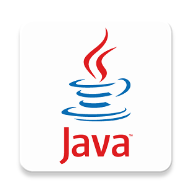
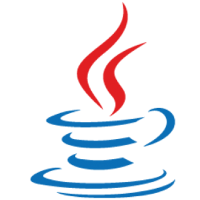
Changes to using locally saved images

Changed region(s): [[0.0938, 0.0, 0.9062, 1.0], [0.7188, 0.1875, 0.75, 0.2188]]

diff --git a/index.html b/index.html
@@ -54,14 +54,14 @@
         <div class="row">
             <div class= "text-xs-center">
                 <div class="card greyBackground col-xs-3 col-sm-3 col-md-2 col-lg-2 col-xl-2">
-                    <img class="card-img-top img-fluid" src="http://www.newstension.com/wp-content/uploads/2016/02/image-10259.jpg" alt="Card image cap">
+                    <img class="card-img-top img-fluid" src="images/java.png" alt="Card image cap">
                     <div class="card-block">
                         <span class="card-title text-xs-center">Java</span>
                     </div>
                 </div>
                 
                 <div class="card greyBackground col-xs-3 col-sm-3 col-md-2 col-lg-2 col-xl-2">
-                    <img class="card-img-top img-fluid" src="http://cdn.mysitemyway.com/etc-mysitemyway/icons/legacy-previews/icons/glossy-black-icons-alphanumeric/070841-glossy-black-icon-alphanumeric-letter-c.png"
+                    <img class="card-img-top img-fluid" src="images/c.gif"
                     alt="Card image cap">
                     <div class="card-block">
                         <span class="card-title">C</span>
@@ -69,42 +69,42 @@
                 </div>
 
                 <div class="card greyBackground col-xs-3 col-sm-3 col-md-2 col-lg-2 col-xl-2">
-                    <img class="card-img-top img-fluid" src="https://www.w3.org/html/logo/downloads/HTML5_Logo_512.png" alt="Card image cap">
+                    <img class="card-img-top img-fluid" src="images/HTML5.png" alt="Card image cap">
                     <div class="card-block">
                         <span class="card-title ">HTML</span>
                     </div>
                 </div>
 
                 <div class="card greyBackground col-xs-3 col-sm-3 col-md-2 col-lg-2 col-xl-2">
-                    <img class="card-img-top img-fluid" src="http://logonoid.com/images/css3-logo.png" alt="Card image cap">
+                    <img class="card-img-top img-fluid" src="images/css3.png" alt="Card image cap">
                     <div class="card-block">
                         <span class="card-title ">CSS</span>
                     </div>
                 </div>
 
                 <div class="card greyBackground col-xs-3 col-sm-3 col-md-2 col-lg-2 col-xl-2">
-                    <img class="card-img-top img-fluid" src="http://3.bp.blogspot.com/-PTty3CfTGnA/TpZOEjTQ_WI/AAAAAAAAAeo/KeKt_D5X2xo/s1600/js.jpg" alt="Card image cap">
+                    <img class="card-img-top img-fluid" src="images/js.jpg" alt="Card image cap">
                     <div class="card-block">
-                        <span class="card-title text-xs-center">Javascript</span>
+                        <span class="card-title">Javascript</span>
                     </div>
                 </div>
 
                 <div class="card greyBackground col-xs-3 col-sm-3 col-md-2 col-lg-2 col-xl-2">
-                    <img class="card-img-top img-fluid" src="http://code-maven.com/img/angularjs.png" alt="Card image cap">
+                    <img class="card-img-top img-fluid" src="images/angularjs.png" alt="Card image cap">
                     <div class="card-block">
                         <span class="card-title">Angular.js</span>
                     </div>
                 </div>
                 
                 <div class="card greyBackground col-xs-3 col-sm-3 col-md-2 col-lg-2 col-xl-2">
-                    <img class="card-img-top img-fluid" src="http://www.emmabeaton.com/img/logos/node-js.png" alt="Card image cap">
+                    <img class="card-img-top img-fluid" src="images/nodejs.png" alt="Card image cap">
                     <div class="card-block">
                         <span class="card-title">Node.js</span>
                     </div>
                 </div>
 
                 <div class="card greyBackground col-xs-3 col-sm-3 col-md-2 col-lg-2 col-xl-2">
-                    <img class="card-img-top img-fluid" src="https://upload.wikimedia.org/wikipedia/en/9/90/Mocha_%28JavaScript_framework%29_%28logo%29.svg"
+                    <img class="card-img-top img-fluid" src="images/mocha.png"
                     alt="Card image cap">
                     <div class="card-block">
                         <span class="card-title">Mocha.js</span>
@@ -112,28 +112,28 @@
                 </div>
 
                 <div class="card greyBackground col-xs-3 col-sm-3 col-md-2 col-lg-2 col-xl-2">
-                    <img class="card-img-top img-fluid" src="http://dragon.consulting/wp-content/uploads/2014/09/matlab_logo.png" alt="Card image cap">
+                    <img class="card-img-top img-fluid" src="images/matlab.png" alt="Card image cap">
                     <div class="card-block">
                         <span class="card-title">Matlab</span>
                     </div>
                 </div>
                 
                 <div class="card greyBackground col-xs-3 col-sm-3 col-md-2 col-lg-2 col-xl-2">
-                    <img class="card-img-top img-fluid" src="http://zpdev.net/wp-content/uploads/2015/04/sqllogo.png" alt="Card image cap">
+                    <img class="card-img-top img-fluid" src="images/sql.png" alt="Card image cap">
                     <div class="card-block">
                         <span class="card-title">SQL</span>
                     </div>
                 </div>
                 
                 <div class="card greyBackground col-xs-3 col-sm-3 col-md-2 col-lg-2 col-xl-2">
-                    <img class="card-img-top img-fluid" src="http://static.tumblr.com/lbtm3t2/8PAn0kziu/mongodb-logo.png" alt="Card image cap">
+                    <img class="card-img-top img-fluid" src="images/mongodb.png" alt="Card image cap">
                     <div class="card-block">
                         <span class="card-title">MongoDB</span>
                     </div>
                 </div>
                 
                 <div class="card greyBackground col-xs-3 col-sm-3 col-md-2 col-lg-2 col-xl-2">
-                    <img class="card-img-top img-fluid" src="https://git-scm.com/images/logos/downloads/Git-Icon-Black.png" alt="Card image cap">
+                    <img class="card-img-top img-fluid" src="images/git.png" alt="Card image cap">
                     <div class="card-block">
                         <span class="card-title">Git</span>
                     </div>
@@ -142,6 +142,7 @@
             </div>
         </div>
         <p class="text-xs-right">and more...</p>
+        <hr>
     </div>
     
     
